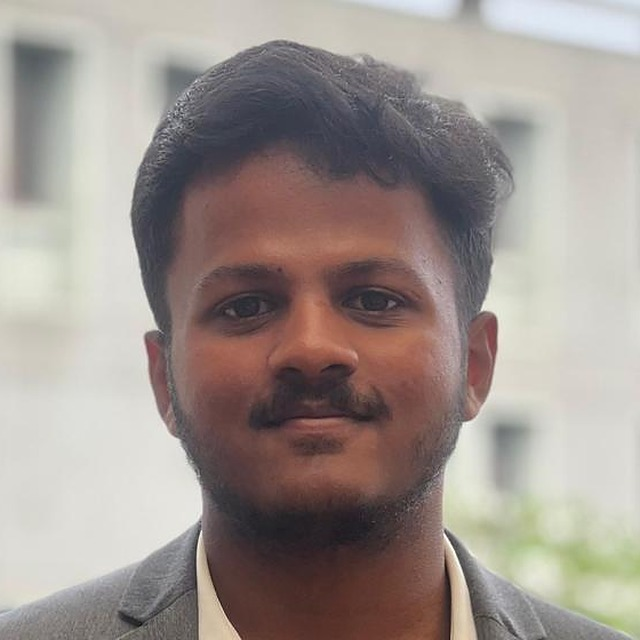
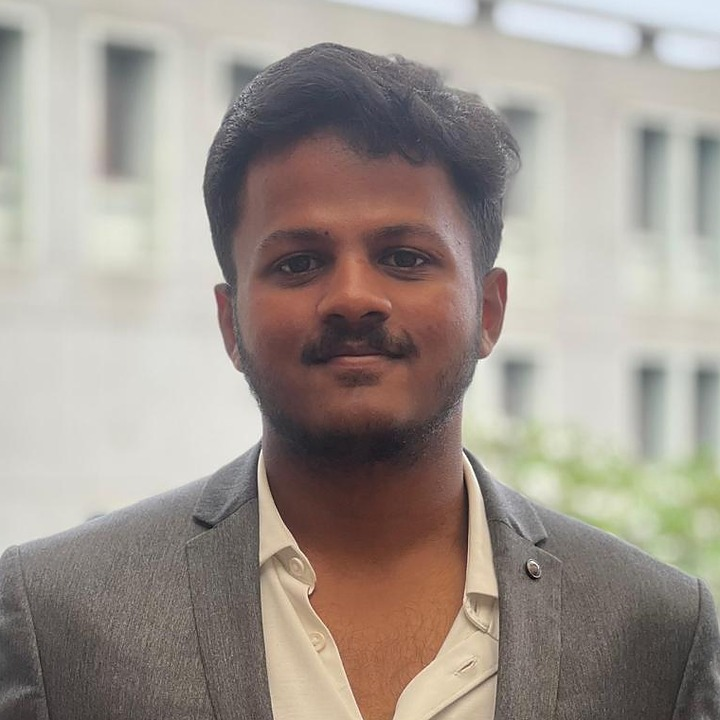
design: professional head-and-shoulders framing for Who I Am portrait
Zoom out so the blazer and shoulders are in frame (head ~45% of the
circle), and enlarge the circle 96px → 112px to keep the face crisp.

diff --git a/src/components/about/WhoIAm.tsx b/src/components/about/WhoIAm.tsx
@@ -25,10 +25,10 @@ export function WhoIAm() {
             <Image
               src="/portrait.jpg"
               alt={`Photo of ${siteConfig.name}`}
-              width={96}
-              height={96}
+              width={112}
+              height={112}
               quality={90}
-              className="h-24 w-24 rounded-full object-cover ring-2 ring-accent/40 ring-offset-4 ring-offset-background"
+              className="h-28 w-28 rounded-full object-cover ring-2 ring-accent/40 ring-offset-4 ring-offset-background"
             />
             <div>
               <p className="text-lg font-semibold">{siteConfig.name}</p>
